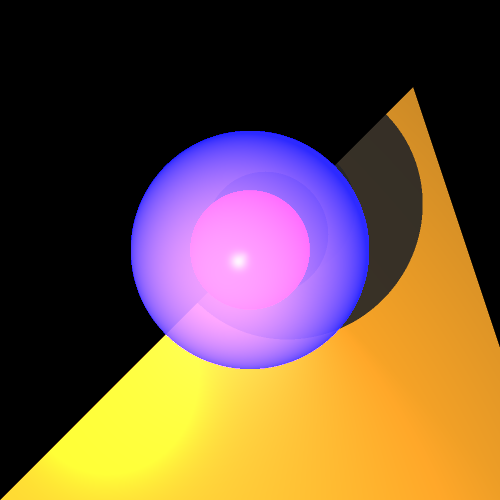
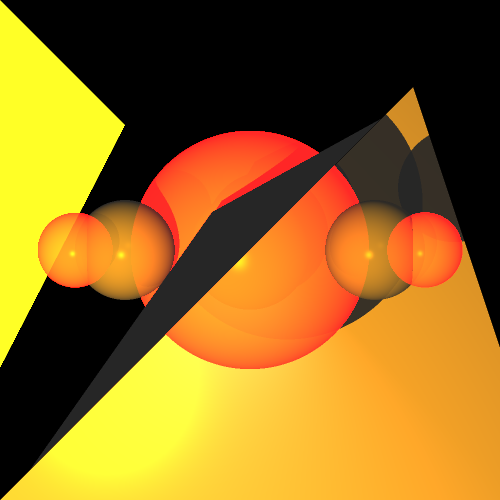
7-step 2 in process&&bowling ball in process

diff --git a/tests/bowling_ball/MIniProject1.java b/tests/bowling_ball/MIniProject1.java
@@ -49,14 +49,32 @@ public class MIniProject1 {
     Camera camera = new Camera(new Point3D(0, 0, 1000), new Vector(0, 0, -1), new Vector(0, 1, 0)) //
             .setViewPlaneSize(150, 150).setDistance(1000);
     @Test
-    public void TesttrianglesSpot() {
+    public void TestMiniProject1() {
         scene2.geometries.add(triangle1.setMaterial(new Material().setDiffuse(0.5).setSpecular(0.5).setShininess(300)),
                 new Sphere(50, new Point3D(0, 0, -50)) //
-                        .setEmission(new Color(java.awt.Color.BLUE)) //
+                        .setEmission(new Color(java.awt.Color.RED)) //
                         .setMaterial(new Material().setDiffuse(0.4).setSpecular(0.3).setShininess(100).setKt(0.3)),
                 new Sphere(25, new Point3D(0, 0, -50)) //
+                        .setEmission(new Color(java.awt.Color.BLACK)) //
+                        .setMaterial(new Material().setDiffuse(0.5).setSpecular(0.5).setShininess(100)),
+                new Sphere(20, new Point3D(50, 0, 0)) //
+                        .setEmission(new Color(java.awt.Color.BLACK)) //
+                        .setMaterial(new Material().setDiffuse(0.4).setSpecular(0.3).setShininess(100).setKt(0.3)),
+                new Sphere(15, new Point3D(70, 0, 0)) //
                         .setEmission(new Color(java.awt.Color.RED)) //
-                        .setMaterial(new Material().setDiffuse(0.5).setSpecular(0.5).setShininess(100)));
+                        .setMaterial(new Material().setDiffuse(0.4).setSpecular(0.3).setShininess(100).setKt(0.3)),
+                new Sphere(20, new Point3D(-50, 0, 0)) //
+                        .setEmission(new Color(java.awt.Color.BLACK)) //
+                        .setMaterial(new Material().setDiffuse(0.4).setSpecular(0.3).setShininess(100).setKt(0.3)),
+                 new Sphere(15, new Point3D(-70, 0, 0)) //
+                     .setEmission(new Color(java.awt.Color.RED)) //
+                     .setMaterial(new Material().setDiffuse(0.4).setSpecular(0.3).setShininess(100).setKt(0.3)),
+                new Triangle( //
+                        new Point3D(50, 50, 50), new Point3D(-15, 15, 15), new Point3D(-75, -75, 150))
+                        .setEmission(new Color(java.awt.Color.BLACK)),
+                new Triangle( //
+                        new Point3D(-150, -100, -300), new Point3D(-50, 50, 1), new Point3D(-150, 150                  , -150))
+                        .setEmission(new Color(java.awt.Color.YELLOW)));
 
         scene2.lights.add(new SpotLight(new Color(500, 250, 250), new Point3D(10, -10, -130), new Vector(-2, -2, -1))
                 .setKl(0.0001).setKq(0.000005));
